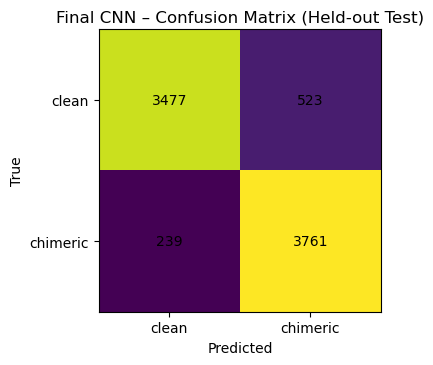
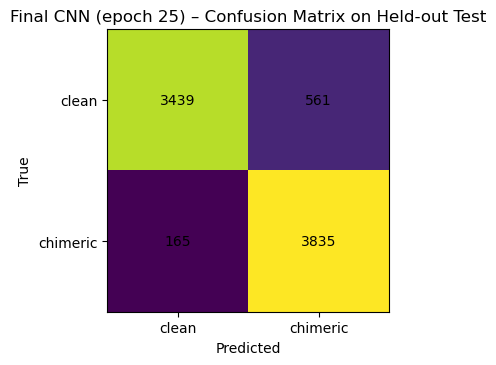
[ELLA] Updated result metrics

diff --git a/documentation/nids2026/src/sections/04_results.tex b/documentation/nids2026/src/sections/04_results.tex
@@ -1,7 +1,7 @@
 \section{Results}
 
 \subsection{Held-out test performance}
-Table~\ref{tab:perf_gb_cnn} summarizes held-out test performance for the tuned Gradient Boosting (feature-based) classifier and the final CNN1D (sequence-based) model. Precision/recall/F1 are reported for the chimeric class. The tuned Gradient Boosting model exhibits high precision (0.937) but lower recall (0.663), indicating a conservative decision strategy that reduced false positives at the expense of missed chimeric reads. In contrast, the CNN1D substantially increases recall (0.940) and overall discrimination (ROC--AUC 0.958), at the cost of reduced precision (0.878), resulting in more clean reads flagged as chimeric.
+Table~\ref{tab:perf_gb_cnn} summarizes held-out test performance for the tuned Gradient Boosting (feature-based) classifier and the final CNN1D (sequence-based) model. Precision/recall/F1 are reported for the chimeric class. The tuned Gradient Boosting model exhibits high precision (0.937) but lower recall (0.663), indicating a conservative decision strategy that reduced false positives at the expense of missed chimeric reads. In contrast, the CNN1D substantially increases recall (0.959) and overall discrimination (ROC--AUC 0.961), at the cost of reduced precision (0.872), resulting in more clean reads flagged as chimeric.
 
 \begin{table}[htbp]
 \centering
@@ -12,13 +12,13 @@ Table~\ref{tab:perf_gb_cnn} summarizes held-out test performance for the tuned G
 Model & Accuracy & Precision & Recall & F1 & ROC--AUC \\
 \midrule
 Gradient Boosting (tuned) & 0.8091 & 0.9368 & 0.6630 & 0.7765 & 0.8459 \\
-CNN1D (final)             & 0.9048 & 0.8779 & 0.9403 & 0.9080 & 0.9579 \\
+CNN1D (final)             & 0.9093 & 0.8724 & 0.9588 & 0.9135 & 0.9607 \\
 \bottomrule
 \end{tabular}
 \end{table}
 
 \subsection{Error profiles}
-The trade-off between the two models is visible in Fig.~\ref{fig:confmats}. Gradient Boosting produces relatively few false positives (179 clean reads predicted as chimeric) but many false negatives (1,348 chimeric reads predicted as clean). CNN1D reverses this pattern, with markedly fewer false negatives (239) but more false positives (523). These complementary error profiles motivate evaluating both models in terms of downstream assembly outcomes rather than classification metrics alone.
+The trade-off between the two models is visible in Fig.~\ref{fig:confmats}. Gradient Boosting produces relatively few false positives (179 clean reads predicted as chimeric) but many false negatives (1,348 chimeric reads predicted as clean). CNN1D reverses this pattern, with markedly fewer false negatives (165) but more false positives (561). These complementary error profiles motivate evaluating both models in terms of downstream assembly outcomes rather than classification metrics alone.
 
 \begin{figure}[H]
   \centering
